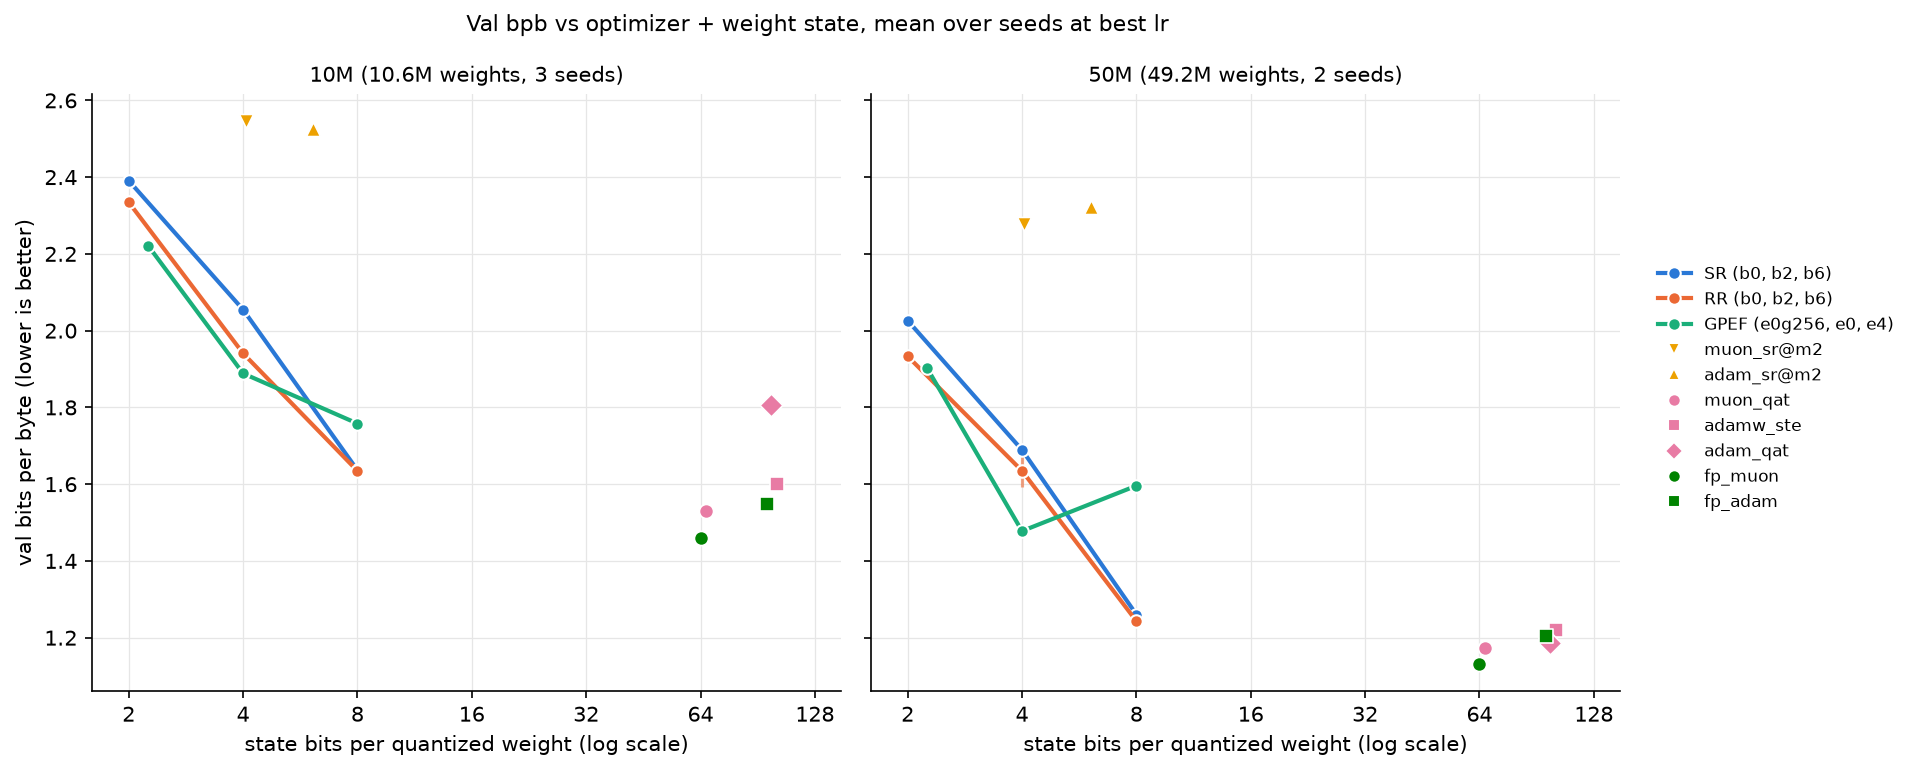
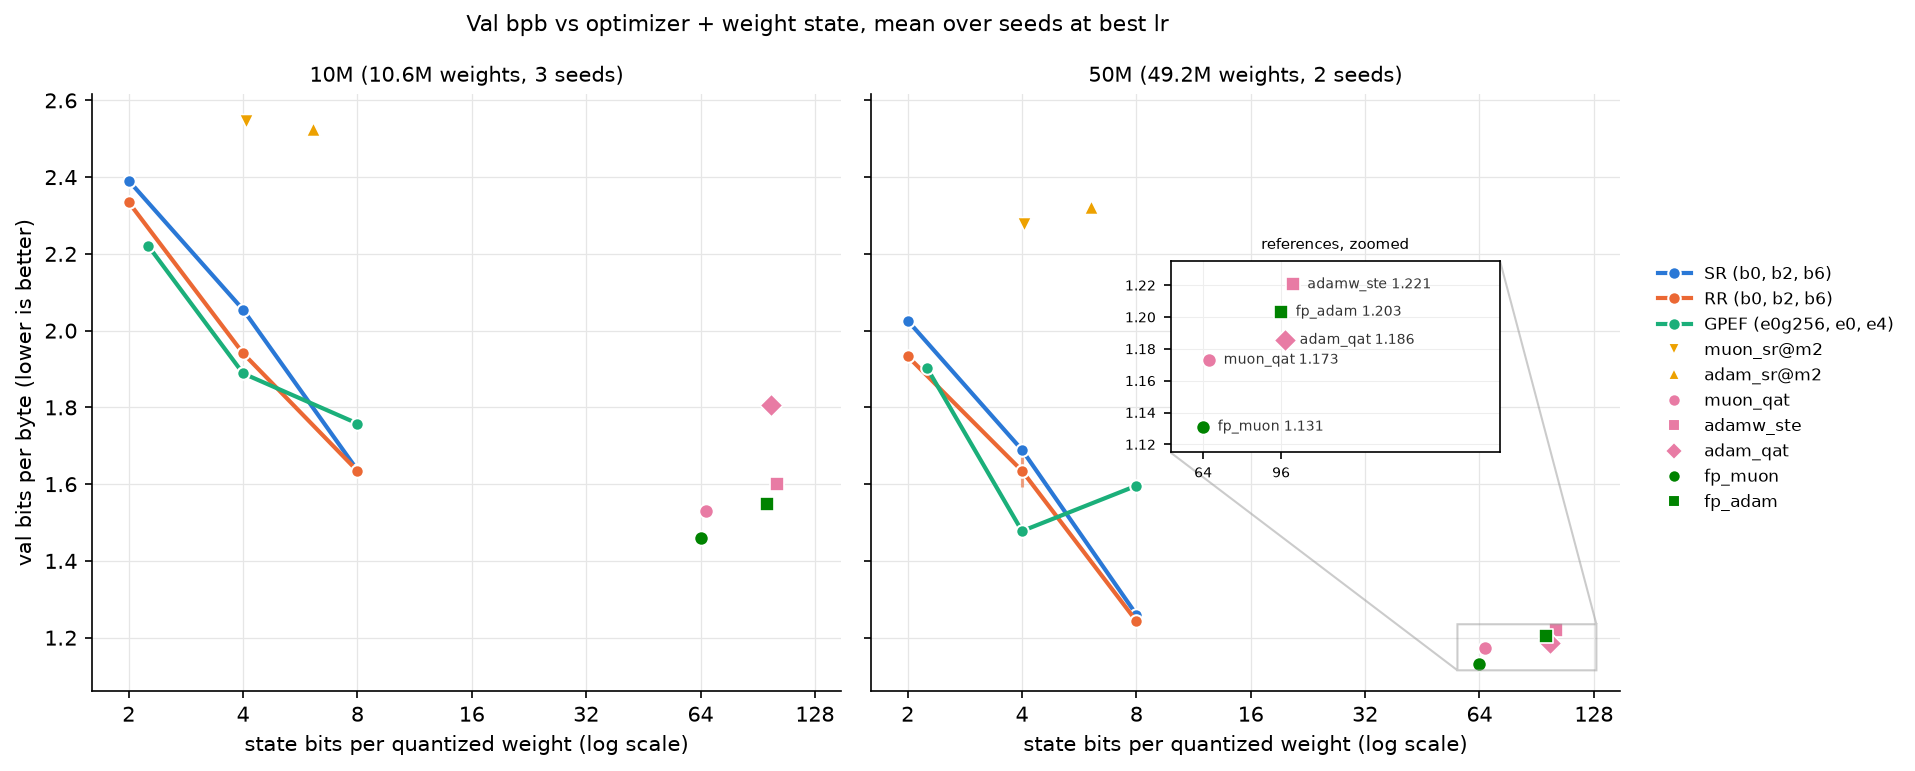
Zoom the 50M reference points in the bits-vs-bpb figure

diff --git a/flip-vs-srqrr/figures/plot_50M.py b/flip-vs-srqrr/figures/plot_50M.py
@@ -119,6 +119,26 @@ def main():
         ax.grid(True, color="#e6e6e6", lw=0.6)
         for s in ("top", "right"):
             ax.spines[s].set_visible(False)
+    # The five 64-102 b/w references sit within 0.09 bpb at 50M: zoom on them.
+    ins = axes[1].inset_axes([0.40, 0.40, 0.44, 0.32])
+    lab = {m: (7, 0, "left") for m in ("fp_muon", "muon_qat", "adam_qat", "fp_adam", "adamw_ste")}
+    for m, fam, mk in singles:
+        if m not in lab:
+            continue
+        p = R[m][0]
+        ins.scatter(p["bits"], p["mean"], marker=mk, s=60 if mk == "D" else 46,
+                    color=COLORS[FAM_ORDER.index(fam)], edgecolors="white", lw=0.8, zorder=3)
+        dx, dy, ha = lab[m]
+        ins.annotate(f"{m} {p['mean']:.3f}", (p["bits"], p["mean"]), xytext=(dx, dy),
+                     textcoords="offset points", ha=ha, va="center", fontsize=6.5, color="#333")
+    ins.set_xscale("log", base=2)
+    ins.set_xlim(54, 300); ins.set_ylim(1.115, 1.235)
+    ins.set_xticks([64, 96]); ins.get_xaxis().set_major_formatter(matplotlib.ticker.ScalarFormatter())
+    ins.xaxis.set_minor_formatter(matplotlib.ticker.NullFormatter())
+    ins.tick_params(labelsize=6.5)
+    ins.grid(True, color="#eeeeee", lw=0.5)
+    ins.set_title("references, zoomed", fontsize=7)
+    axes[1].indicate_inset([56, 1.115, 74, 0.12], ins, edgecolor="#999")
     axes[0].set_ylabel("val bits per byte (lower is better)")
     h = [Line2D([], [], marker="o", color=COLORS[FAM_ORDER.index(f)], lw=2, mec="white",
                 label={"SR": "SR (b0, b2, b6)", "RR": "RR (b0, b2, b6)",
